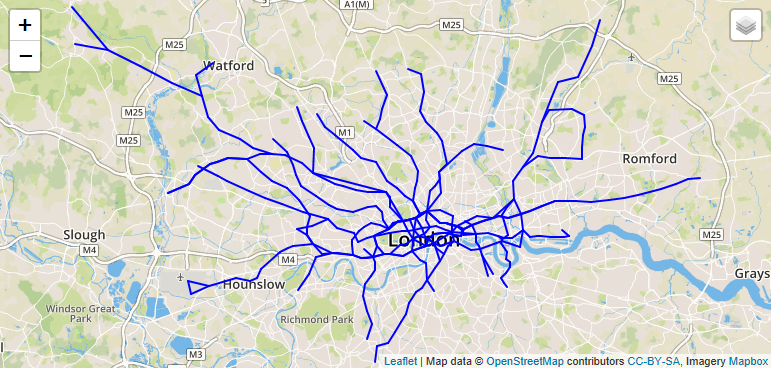
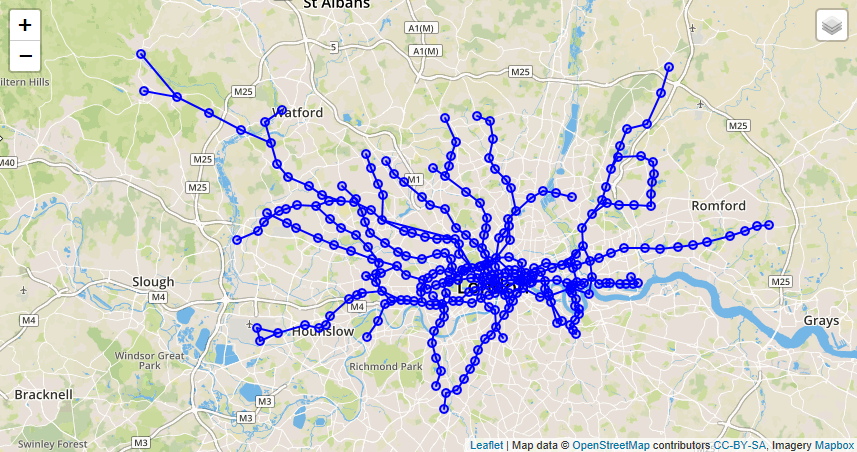
changed graph ex

diff --git a/exercises/ex9/README.md b/exercises/ex9/README.md
@@ -47,9 +47,13 @@ BEGIN
 END;
 ```
 ```SQL
-CALL "DAT260"."GS_SPOA"(124, ?);
+SELECT * FROM DAT260.LONDON_TUBE_STATIONS WHERE "name" = 'Heathrow Terminals 1, 2 & 3';
+CALL "DAT260"."GS_SPOA"(117, ?);
 ```
-TODO: add image
+If we start at Heathrow" and color-code the travel time it looks like this.
+
+![](images/ISO_Heathrow.png)
+
 
 ## Exercise 9.3 Using TRAVERSE BFS to implement Closeness Centrality <a name="subex3"></a>
 
@@ -107,7 +111,7 @@ BEGIN
 END;
 ```
 ```SQL
-CALL "DAT260"."GS_CC_SINGLE_SOURCE"(124, ?);
+CALL "DAT260"."GS_CC_SINGLE_SOURCE"(117, ?);
 ```
 
 Now the closeness centrality measures for a single vertex in a network is not really meaningful. We need to calculate the centrality for all vertices. We could do this by adding a loop into or GRAPH program. A nice way to implement such loops in a parallel way is by using the MAP_MERGE operator in SQLScript.
@@ -143,7 +147,8 @@ SELECT *
   ON C."ID" = S."ID"
 	ORDER BY "NORMALIZED_CLOSENESS_CENTRALITY" DESC;
 ```
-TODO: add image
+![](images/CC.png)
+
 ## Summary
 
 You've now seen how to use Shortest_Path_One_To_All and TRAVERSE BFS.
